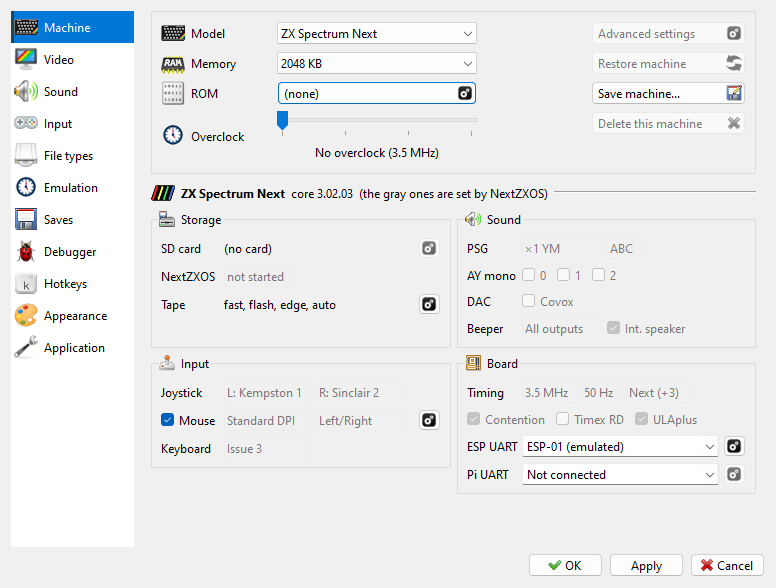
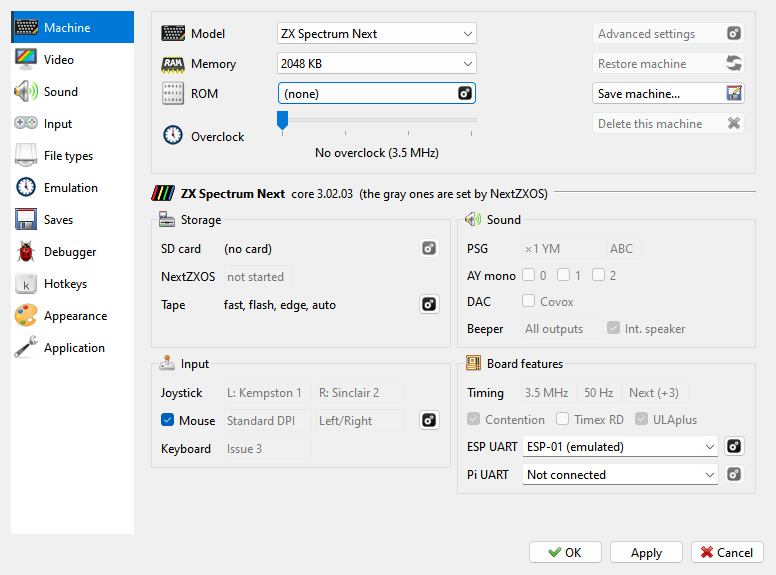
manual: the Machine page's Board group is Board features

diff --git a/docs/manual/options-machine.md b/docs/manual/options-machine.md
@@ -7,7 +7,7 @@
 
 This page sets up the running machine: **Model**, **Memory**, **ROM** and the **Overclock**
 slider at the top, then its devices in four groups - **Storage**, **Input**, **Sound** and
-**Board**. The {icon}`settings` gear beside a device opens the rest of its settings.
+**Board features**. The {icon}`settings` gear beside a device opens the rest of its settings.
 
 What you change here is kept for this machine only. {icon}`save-as` **Save machine...**,
 {icon}`refresh` **Restore machine** and {icon}`cancel` **Delete this machine** are explained
@@ -51,7 +51,7 @@ Esc) puts back what it showed when it opened.
 | | **DAC** | **None**, **Covox only**, **Soundrive 1.05 mode 1** or **mode 2** |
 | | **General Sound** | **None**, **Original** or **NeoGS** (see [General Sound](#general-sound)); its ROM in its window |
 | | **SAA1099** | **Off** or **On** |
-| **Board** | **Turbo** | the turbo steps: **x1 (no turbo)**, **x1, x2** or **x1, x2, x4** |
+| **Board features** | **Turbo** | the turbo steps: **x1 (no turbo)**, **x1, x2** or **x1, x2, x4** |
 | | **Clock** | Pentagon, Pentagon 1024 SL and ZXM-Phoenix only: **None** or **Gluk**, the clock chip Gluk Reset Service shows (see [The Gluk clock](#the-gluk-clock)); on the Pentagon 1024 SL and the ZXM-Phoenix it is part of the board |
 | | **ESP UART** | ZX Spectrum Next only: **Not connected**, **ESP-01 (emulated)** - the Wi-Fi module with Espressif's AT firmware 1.7.6, on this computer's network - or a serial port of this computer with a real module on it. In its window, **Server on the network** lets other computers reach a server the module opens, and a UDP link's own port; off, only this computer reaches the server, at 127.0.0.1, and a UDP link hears only whom it sent to. On, Windows asks once whether to let Xpeccy+ through its firewall |
 | | **Pi UART** | ZX Spectrum Next only: a serial port of this computer for the Pi's UART |
@@ -79,7 +79,7 @@ other machines.
 | **Storage** | **SD card**, the card's path (it is put in from the **Media** menu, see [The SD card](zx-next.md#the-sd-card)); **NextZXOS**, the version the machine runs; **Tape** with its settings (see [Machine: Tape](#machine-tape)) |
 | **Input** | **Joystick**, the left and the right one; **Mouse**, its DPI and buttons, with a {icon}`settings` gear for the mouse's **Sensitivity** and **Swap buttons** - its check box is this computer's mouse in use, a click in the window then takes the pointer; **Keyboard**, issue 2 or 3 |
 | **Sound** | **PSG**: the chip, **x3** with TurboSound on (all three play) or **x1**, and the stereo; **AY mono** for each chip; **DAC**: Covox; **Beeper**: where BEEP goes, and the internal speaker |
-| **Board** | **Timing**: the CPU speed, 50 or 60 Hz, and the timings; **Contention**, **Timex RD** and **ULAplus**; **ESP UART** and **Pi UART** |
+| **Board features** | **Timing**: the CPU speed, 50 or 60 Hz, and the timings; **Contention**, **Timex RD** and **ULAplus**; **ESP UART** and **Pi UART** |
 
 The values are what the machine has set now; hold the mouse over one to see what else it can
 be. To change them, press NMI, then **Settings**, in NextZXOS: a change made there takes

diff --git a/docs/manual/machines.md b/docs/manual/machines.md
@@ -211,7 +211,7 @@ in white on blue with "© "SELTO-ROTOR" Computer V03". Its frame is its own, 313
 ticks, and nothing in it is contended but a write to the screen's memory, #4000-#5FFF, which
 waits from 1 to 4 ticks; the timings were measured on three owners' boards.
 
-Three things differ from board to board, and the **Board** group of the
+Three things differ from board to board, and the **Board features** group of the
 [Machine page](options-machine.md) of **Options** has a row for each:
 
 - **Shadow RAM**: 16 KB of RAM under the ROM. Any OUT or IN on port 15 swaps the ROM and
